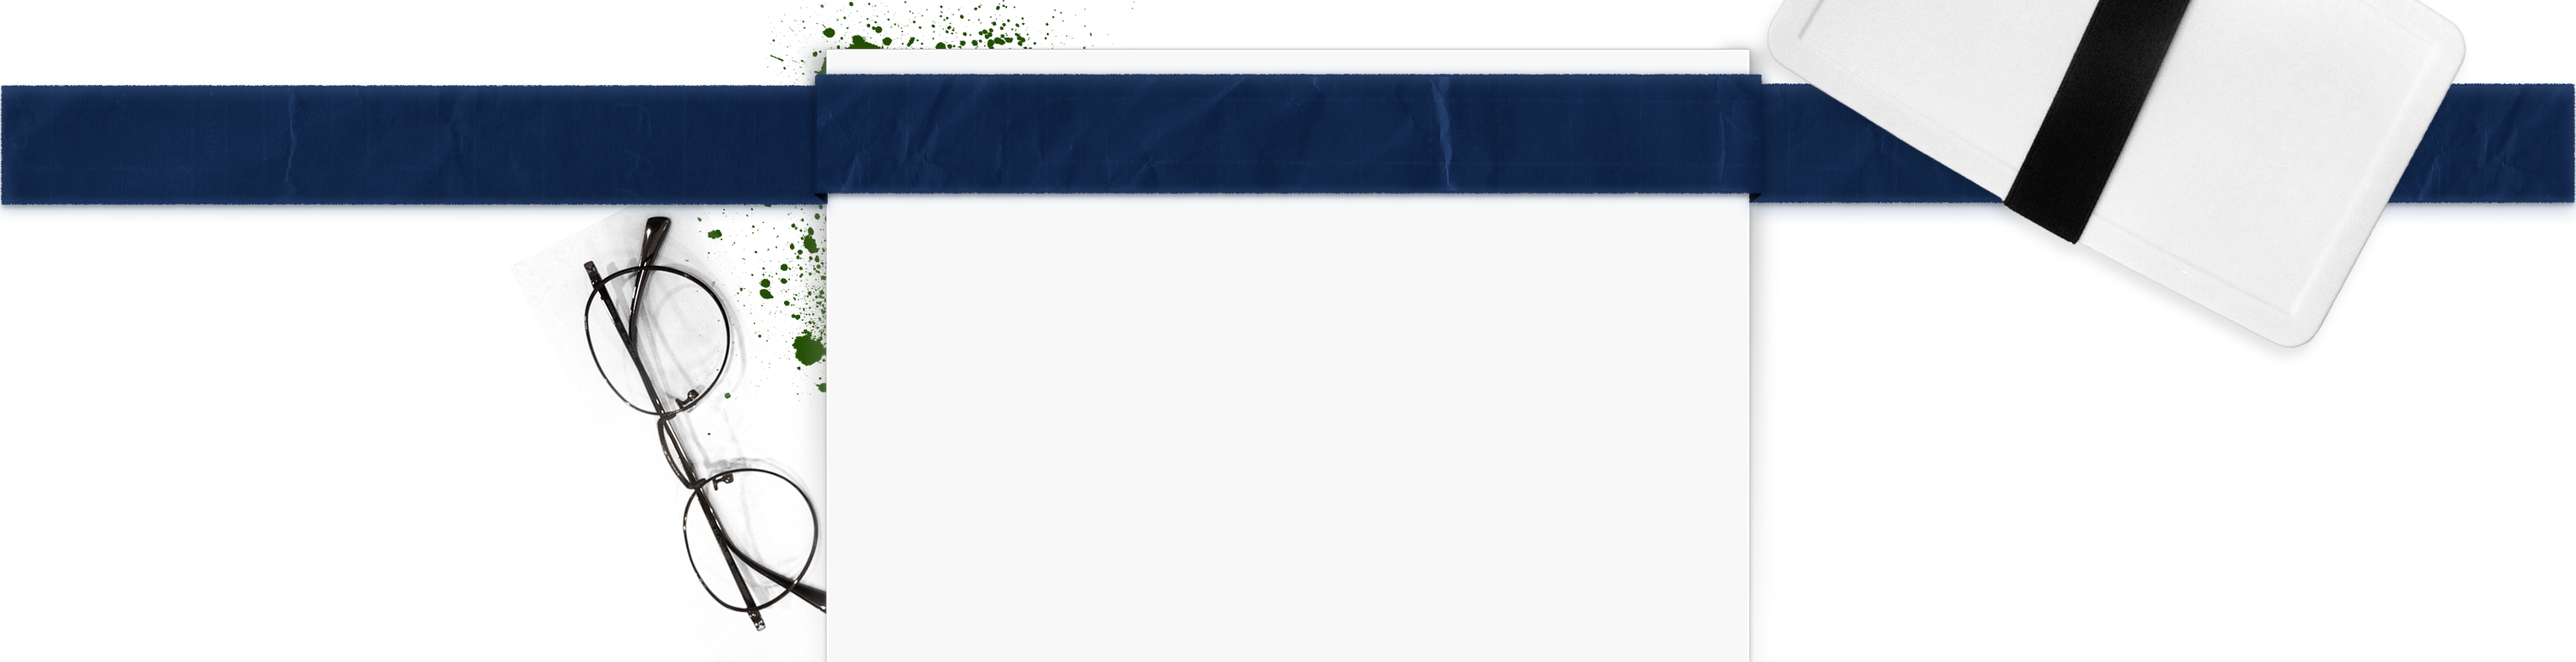
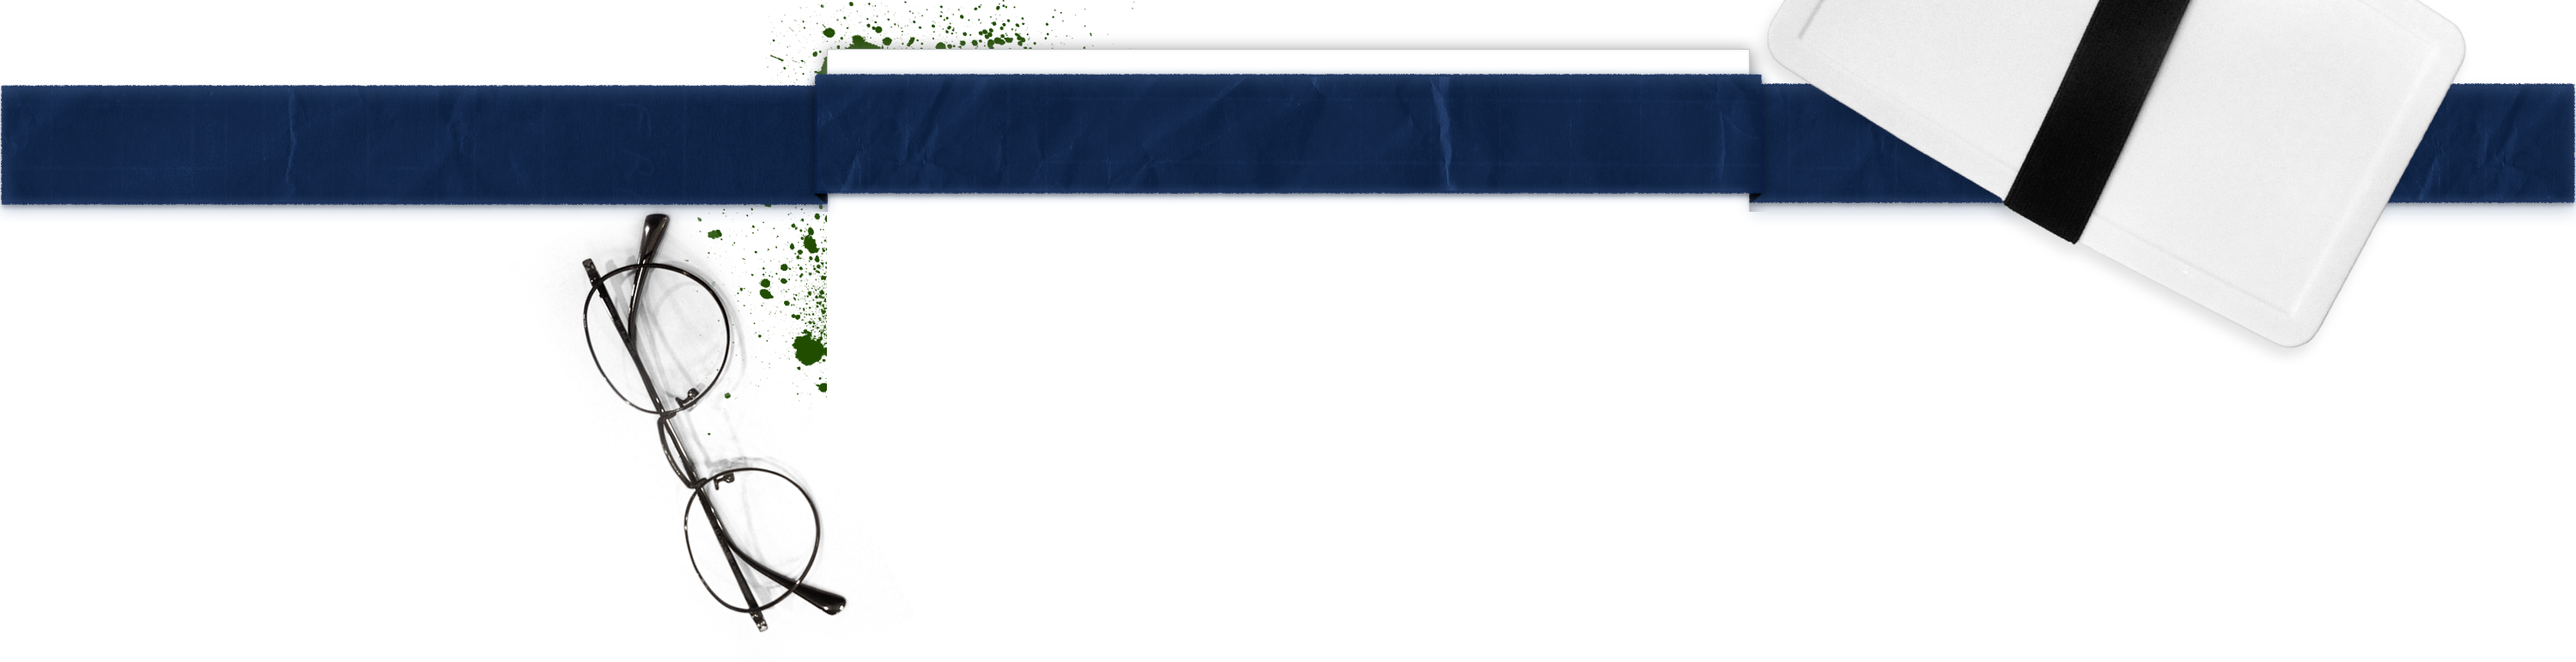
external layout

diff --git a/ReformYourCountry/WebContent/css/int/template.css b/ReformYourCountry/WebContent/css/int/template.css
@@ -26,7 +26,7 @@ body {
 
 
 #main-wrapper {
-	width:1087px;
+	width:1123px;
 	margin:0px auto;
     background:url(/images/template/bg_content.png) repeat-y;
 }
@@ -35,7 +35,7 @@ body {
 	width:100%;
 	background-image:url(/images/kidsdrawingbig.png);
 	background-repeat:no-repeat;
-	background-position:22px bottom;"
+	background-position:40px bottom;"
 }
 
 #main {
